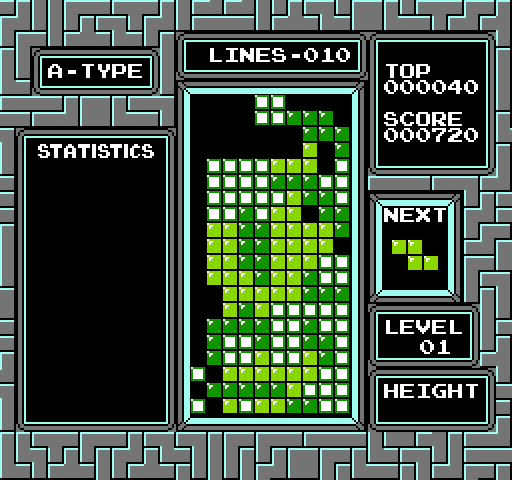
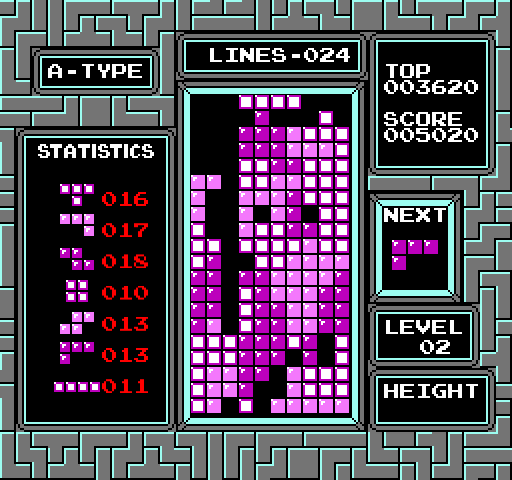
Add piece statistics tracker

diff --git a/main.cpp b/main.cpp
@@ -16,6 +16,10 @@ constexpr uint field_y = 63;
 constexpr uint next_x = 376;
 constexpr uint next_y = 208;
 
+constexpr uint mini_block_size = 12;
+constexpr uint stats_x = 48;
+constexpr uint stats_y = 160;
+
 unsigned long long frame = 1;
 const unsigned int framerate = 60;
 
@@ -31,6 +35,9 @@ bool horizontalLast = false;
 bool resetDrop = false;
 int dropPoints = 0;
 
+uint stats_count[7];
+const uint mini_block_offset[7] = {0, 30, 64, 96, 128, 158, 198};
+
 typedef struct Point
 {
   short x;
@@ -44,34 +51,34 @@ typedef struct Point
  * This grid initially spans the square with corners coordinates (3, -2) through (6, 1) inclusive when the piece spawns 
  */
 const Point blocks[7][4][4] = {
-    {{{0, 2}, {1, 2}, {2, 2}, {3, 2}}, // I Piece
-     {{2, 0}, {2, 1}, {2, 2}, {2, 3}},
-     {{0, 2}, {1, 2}, {2, 2}, {3, 2}},
-     {{2, 0}, {2, 1}, {2, 2}, {2, 3}}},
-    {{{1, 2}, {2, 2}, {2, 3}, {3, 3}}, // Z Piece
-     {{2, 3}, {2, 2}, {3, 2}, {3, 1}},
-     {{1, 2}, {2, 2}, {2, 3}, {3, 3}},
-     {{2, 3}, {2, 2}, {3, 2}, {3, 1}}},
-    {{{1, 3}, {2, 3}, {2, 2}, {3, 2}}, // S Piece
-     {{2, 1}, {2, 2}, {3, 2}, {3, 3}},
-     {{1, 3}, {2, 3}, {2, 2}, {3, 2}},
-     {{2, 1}, {2, 2}, {3, 2}, {3, 3}}},
     {{{1, 2}, {2, 2}, {2, 3}, {3, 2}}, // T Piece
      {{2, 1}, {2, 2}, {2, 3}, {3, 2}},
      {{1, 2}, {2, 2}, {2, 1}, {3, 2}},
      {{1, 2}, {2, 2}, {2, 3}, {2, 1}}},
-    {{{1, 3}, {1, 2}, {2, 2}, {3, 2}}, // L Piece
-     {{2, 1}, {2, 2}, {2, 3}, {3, 3}},
-     {{1, 2}, {2, 2}, {3, 2}, {3, 1}},
-     {{1, 1}, {2, 1}, {2, 2}, {2, 3}}},
     {{{1, 2}, {2, 2}, {3, 2}, {3, 3}}, // J Piece
      {{2, 3}, {2, 2}, {2, 1}, {3, 1}},
      {{1, 1}, {1, 2}, {2, 2}, {3, 2}},
      {{1, 3}, {2, 3}, {2, 2}, {2, 1}}},
+    {{{1, 2}, {2, 2}, {2, 3}, {3, 3}}, // Z Piece
+     {{2, 3}, {2, 2}, {3, 2}, {3, 1}},
+     {{1, 2}, {2, 2}, {2, 3}, {3, 3}},
+     {{2, 3}, {2, 2}, {3, 2}, {3, 1}}},
     {{{1, 3}, {1, 2}, {2, 2}, {2, 3}}, // O Piece
      {{1, 3}, {1, 2}, {2, 2}, {2, 3}},
      {{1, 3}, {1, 2}, {2, 2}, {2, 3}},
-     {{1, 3}, {1, 2}, {2, 2}, {2, 3}}}};
+     {{1, 3}, {1, 2}, {2, 2}, {2, 3}}},
+    {{{1, 3}, {2, 3}, {2, 2}, {3, 2}}, // S Piece
+     {{2, 1}, {2, 2}, {3, 2}, {3, 3}},
+     {{1, 3}, {2, 3}, {2, 2}, {3, 2}},
+     {{2, 1}, {2, 2}, {3, 2}, {3, 3}}},
+    {{{1, 3}, {1, 2}, {2, 2}, {3, 2}}, // L Piece
+     {{2, 1}, {2, 2}, {2, 3}, {3, 3}},
+     {{1, 2}, {2, 2}, {3, 2}, {3, 1}},
+     {{1, 1}, {2, 1}, {2, 2}, {2, 3}}},
+    {{{0, 2}, {1, 2}, {2, 2}, {3, 2}}, // I Piece
+     {{2, 0}, {2, 1}, {2, 2}, {2, 3}},
+     {{0, 2}, {1, 2}, {2, 2}, {3, 2}},
+     {{2, 0}, {2, 1}, {2, 2}, {2, 3}}}};
 
 typedef struct Piece
 {
@@ -98,6 +105,7 @@ sf::Text line_text;
 sf::Text level_text;
 sf::Text score_text;
 sf::Text high_score_text;
+sf::Text stats_text[7];
 
 sf::Event e;
 
@@ -146,6 +154,15 @@ void setup()
   score_text.setPosition(384, 126);
   high_score_text.setPosition(384, 78);
 
+  for (int i = 0; i < 7; i++)
+  {
+    stats_count[i] = 0;
+    stats_text[i].setFont(font);
+    stats_text[i].setCharacterSize(16);
+    stats_text[i].setPosition(stats_x + 4.5 * mini_block_size, stats_y + (2.6 * i + 2.5) * mini_block_size);
+    stats_text[i].setFillColor(sf::Color::Red);
+  }
+
   window.setFramerateLimit(framerate);
   window.setKeyRepeatEnabled(false);
 }
@@ -173,6 +190,11 @@ void update_text()
   level_text.setString(zpad(level, 2));
   score_text.setString(zpad(score, 6));
   high_score_text.setString(zpad(high_score, 6));
+
+  for (int i = 0; i < 7; i++)
+  {
+    stats_text[i].setString(zpad(stats_count[i], 3));
+  }
 }
 
 void draw_text()
@@ -182,14 +204,16 @@ void draw_text()
   window.draw(level_text);
   window.draw(score_text);
   window.draw(high_score_text);
+  for (int i = 0; i < 7; i++)
+  {
+    window.draw(stats_text[i]);
+  }
 }
 
 void draw_background()
 {
   window.clear(sf::Color::Blue);
   window.draw(background);
-
-  draw_text();
 }
 
 void draw_tile(ushort type, Point coords)
@@ -239,7 +263,7 @@ void draw_next()
     int x = next_x + blocks[next.type - 1][0][i].x * block_size;
     int y = next_y + blocks[next.type - 1][0][i].y * block_size;
 
-    if (next.type == 1 || next.type == 7)
+    if (next.type == 4 || next.type == 7)
     {
       x += block_size / 2;
     }
@@ -248,6 +272,28 @@ void draw_next()
     block_sprite.setPosition(x, y);
 
     window.draw(block_sprite);
+  }
+}
+
+void draw_stats_pieces()
+{
+  for (short i = 0; i < 7; i++)
+  {
+    for (short j = 0; j < 4; j++)
+    {
+      int x = stats_x + blocks[i][0][j].x * mini_block_size;
+      int y = stats_y + blocks[i][0][j].y * mini_block_size + mini_block_offset[i];
+
+      if (i == 3 || i == 6)
+      {
+        x += mini_block_size / 2;
+      }
+
+      block_sprite.setTextureRect(sf::IntRect((i % 3) * mini_block_size + 4 * block_size, (level % 10) * mini_block_size, mini_block_size, mini_block_size));
+      block_sprite.setPosition(x, y);
+
+      window.draw(block_sprite);
+    }
   }
 }
 
@@ -336,6 +382,10 @@ void check_clear_lines()
 
     draw_next();
 
+    draw_stats_pieces();
+
+    draw_text();
+
     for (int j = 0; j < 4; j++)
     {
       window.display();
@@ -358,6 +408,7 @@ void check_clear_lines()
 
 void place()
 {
+  stats_count[current.type - 1]++;
   for (int i = 0; i < 4; i++)
   {
     field[get_current_x(i)][get_current_y(i)] = current.type;
@@ -501,6 +552,10 @@ int main()
     draw_current();
 
     draw_next();
+
+    draw_stats_pieces();
+
+    draw_text();
 
     if (conflict())
     {
